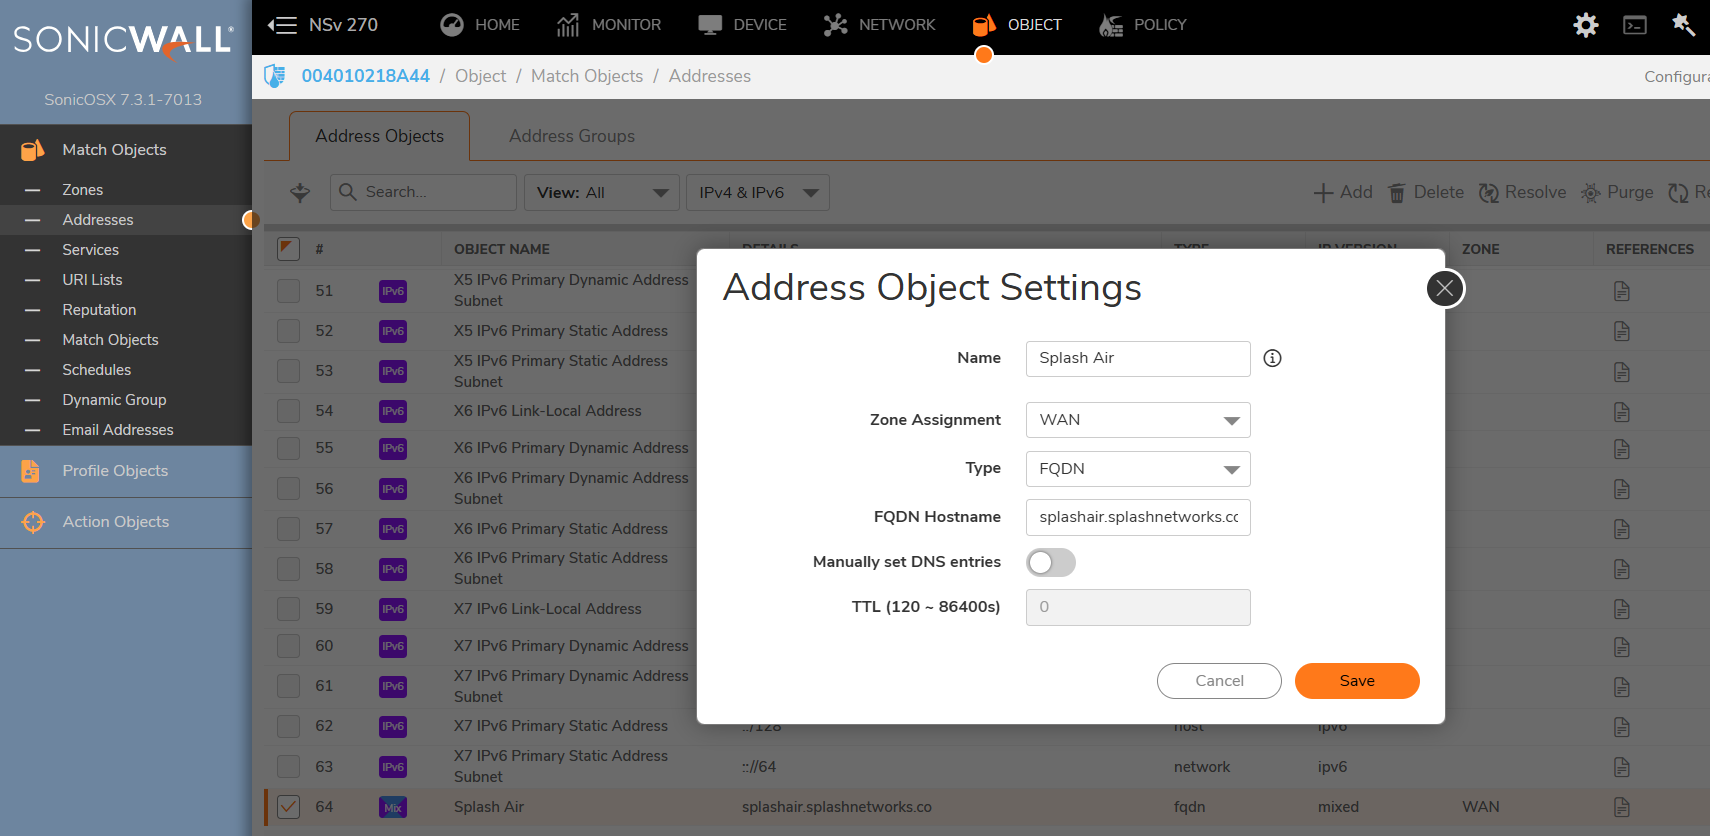
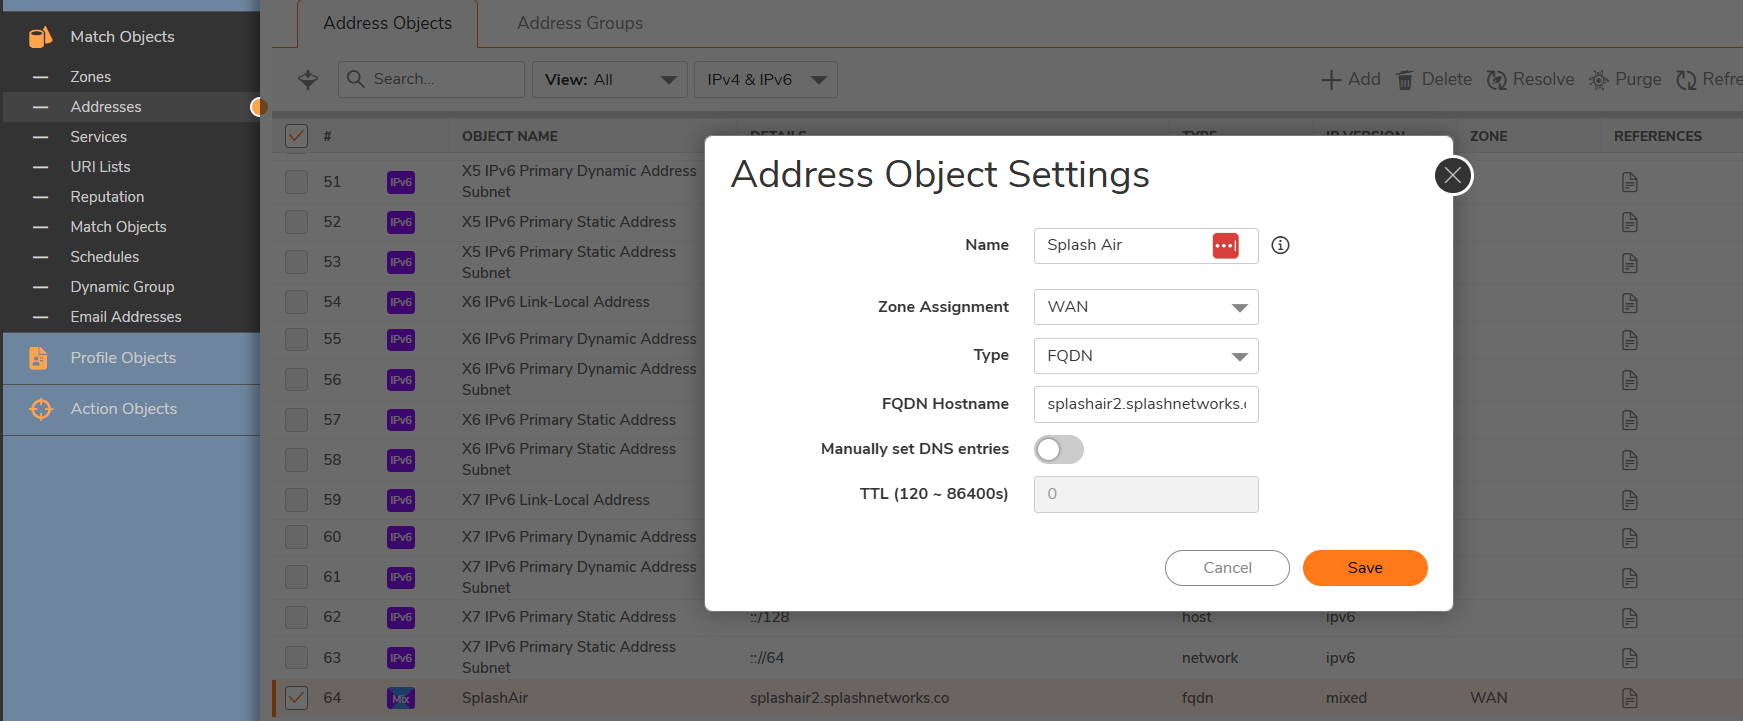
sonicwall api

diff --git a/docs/portals/sonicwall-api.md b/docs/portals/sonicwall-api.md
@@ -1,0 +1,109 @@
+*For SonicWall versions below 7.3.2 click [here](sonicwall.md).*
+
+To set up a portal for SonicWall first you need to [create a template](../defining-templates.md).
+
+## Add a Portal
+
+To create a portal go to the Portals tab and click on the New portal button. Enter a name for the portal and specify the business and venue. In Hardware select `Sonicwall`. Then, enter a Site ID based on which the path of the portal URL will be defined.
+
+![Sonicwall Portal](../assets/images/portals/sonicwall/portal-api.png)
+
+The `Guest Portal URL` will be created based on the URL of the Splash Air application followed by the path given by Site ID. Note this URL as it will be required later.
+
+Sonicwall Mode will be `API`. In `Sonicwall Hostname` enter the hostname for the LAN interface of Sonicwall (on which captive portal will be enabled). A DNS entry for this hostname pointing to the interface IP address must exist.
+
+Select the template and click on the Create button.
+
+## Portal Settings
+
+You can go to Portals to view the settings for the portal(s) just added.
+
+Clicking on a portal takes you to the details for that portal. It lets you specify additional settings:
+
+```
+Business Name: name of the venue which will be displayed on top of the portal
+Expiry: the time in days after which a repeat user will have to enter their data again on the portal
+Redirect URL: the URL a user is redirected to after successful portal authorization
+Duration (seconds): the time for which a user is authorized on the network
+Duration (seconds) after email verification: when using "Link" type Flow it is the time for which a user is authorized on the network after successful email verification 
+```
+
+You can click on the Edit button against each entry to modify it if needed.
+
+## SonicWall Settings
+
+Access SonicWall firewall appliance using web interface.
+
+Go to Device > Users > Settings > Authentication. In **User authentication method** select `RADIUS + Local Users`. Then click on the **Configure RADIUS** button and add a new RADIUS server. The IP address and RADIUS secret shared by Splash Networks' support team will be entered here. In **RADIUS Users** tab the "Default user group to which all RADIUS users belong" should be `Guest Services`. In RADIUS Attributes enable "WISPr Bandwidth Max Up" and "WISPr Bandwidth Max Down" attributes.
+
+Then, go to Network > System > Interfaces and then Edit the LAN interface (the one on which portal will be enabled) and in **Management** enable `HTTPS`.
+
+Next, an entry based on the Guest Portal URL noted earlier will be added. Suppose the Guest portal URL is: `https://splashair2.splashnetworks.co/sonicwall/guest`. It consists of 2 sections:
+
+ - _Hostname_: `splashair2.splashnetworks.co`
+
+ - _URL_: `sonicwall/guest`
+
+Go to Object > Match Objects > Addresses > Address Objects and add a new entry:
+
+**Name**: A friendly name
+
+**Zone Assignment**: `WAN`
+
+**Type**: `FQDN`
+
+**FQDN Hostname**: the hostname as given in the example above
+
+**Manually set DNS entries**: disabled
+
+Save and exit.
+
+![Address Object](../assets/images/portals/sonicwall/address-object-api.png)
+
+If using `Payment` Flow you need to add [walled garden](../walled-garden.md) entries for your payment gateway such as Stripe in a similar way as given above. Then go to Address Group, create a new address group and add these entries to it.
+
+![Address Group Object](../assets/images/portals/sonicwall/address-group-api.png)
+
+Then go to Object > Match Objects > Zones and edit the zone on which you want to enable guest portal (such as LAN). In Guest Services use these settings:
+
+**Enable Guest Service**: enabled
+
+**Enable External Guest Authentication**: disabled
+
+**Enable Captive Portal Authentication**: enabled
+
+**Max Guests**: based on your requirements
+
+**Pass Networks**: enabled - and select the address/address group created in the previous step
+
+![Zone Settings](../assets/images/portals/sonicwall/zone-settings-api.png)
+
+Then click on the Configure button next to `Enable Captive Portal Authentication`. In Guest Services use these settings:
+
+**External Captive Portal Vendor URL**: the `Guest Portal URL` created earlier
+
+**Captive Portal Welcome URL Source**: `Custom`
+
+**Custom Captive Portal Welcome URL Source**: the URL a user should be redirected to after successful portal authorization
+
+**Radius Authentication Method**: `PAP Encrypted`
+
+Optionally, if you want to set **Session Timeout** and **Idle Timeout** you can configure those here.
+
+![General](../assets/images/portals/sonicwall/zone-guest-services.png)
+
+Save the settings. Then, go to Device > Settings > Certificates and import a TLS certificate for the LAN interface - the interface on which portal is enabled, corresponding to the Sonicwall Hostname in Portal settings. This is a mandatory step, portal authentication will not work without it. Afterwards, go to Device > Settings > Administration > Management and select your uploaded certificate in **Certificate Selection**. A reboot will be necessary at this point.
+
+Finally, go to Device > Settings > Administration > SonicOS API. Enable **SonicOS API** and **RFC-2617 HTTP Basic Access authentication**. Also enable **CORS** and in **Allow CORS Origins** enter https://<hostname\>
+
+![SonicOS API](../assets/images/portals/sonicwall/sonic-os-api.png)
+
+## Troubleshooting
+
+To troubleshoot problems it is important to understand the components involved in the captive portal user authorization process and the interactions between them.
+
+### Traffic Flow
+
+Here is the traffic flow in the case of SonicWall firewall:
+
+![Traffic Flow](../assets/images/portals/sonicwall/traffic-flow-api.png)

diff --git a/docs/portals/sonicwall.md b/docs/portals/sonicwall.md
@@ -1,4 +1,6 @@
-To set up a portal for Ruckus One first you need to [create a template](../defining-templates.md).
+*This guide is only for SonicWall versions below 7.3.2. For version 7.3.2 and above, click [here](sonicwall-api.md).*
+
+To set up a portal for SonicWall first you need to [create a template](../defining-templates.md).
 
 ## Add a Portal
 
@@ -8,7 +10,7 @@ To create a portal go to the Portals tab and click on the New portal button. Ent
 
 The `Guest Portal URL` will be created based on the URL of the Splash Air application followed by the path given by Site ID. Note this URL as it will be required later.
 
-Select the template and click on the Create button.
+Select the template and click on the Create button. Sonicwall Mode will be `CGI`.
 
 ## Portal Settings
 
@@ -30,9 +32,9 @@ You can click on the Edit button against each entry to modify it if needed.
 
 Access SonicWall firewall appliance using web interface.
 
-An entry based on the Guest Portal URL noted earlier will need to be added first. Suppose the Guest portal URL is: `https://splashair.splashnetworks.co/sonicwall/sonic`. It consists of 2 sections:
+An entry based on the Guest Portal URL noted earlier will need to be added first. Suppose the Guest portal URL is: `https://splashair2.splashnetworks.co/sonicwall/sonic`. It consists of 2 sections:
 
- - _Hostname_: `splashair.splashnetworks.co`
+ - _Hostname_: `splashair2.splashnetworks.co`
 
  - _URL_: `sonicwall/sonic`
 
